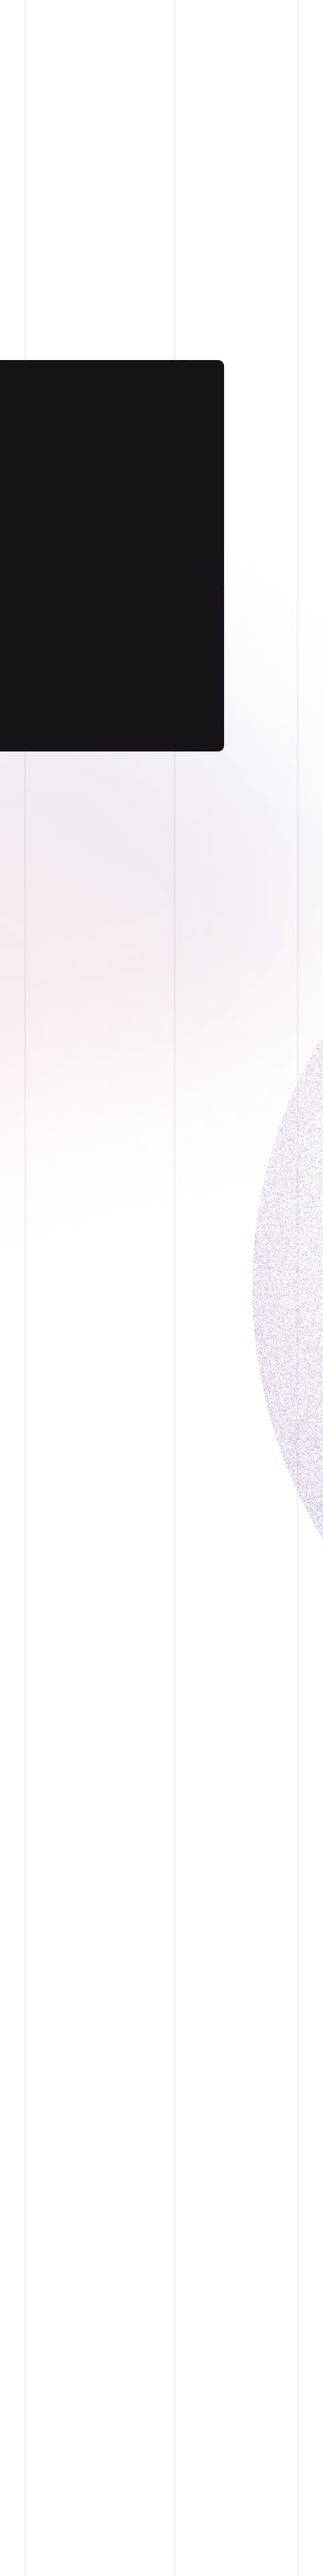
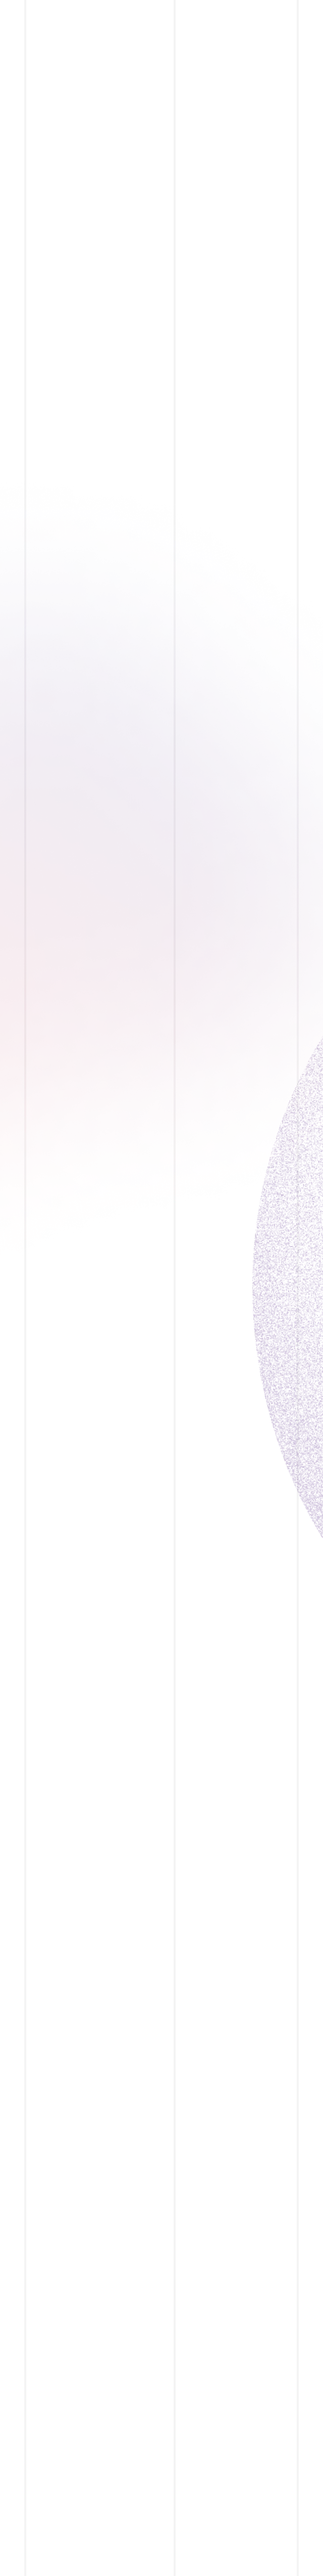
update section bg

Changed region(s): [[0.0, 0.1249, 0.7188, 0.3121]]

diff --git a/views/MafiaSchool/MafiaSchool.module.css b/views/MafiaSchool/MafiaSchool.module.css
@@ -23,15 +23,39 @@
   );
 }
 
-@media screen and (min-width: 352px) {
+.container::before {
+  content: '';
+
+  width: 384px;
+  height: 387px;
+
+  position: absolute;
+  top: 276px;
+  left: -158px;
+
+  background: #141318;
+
+  border-radius: 6px;
+}
+
+@media screen and (min-width: 351px) {
   .schoolSection::before {
     top: 742px;
+  }
+
+  .container::before {
+    top: 250px;
   }
 }
 
 @media screen and (min-width: 378px) {
   .schoolSection::before {
     top: 718px;
+  }
+
+  .container::before {
+    width: 484px;
+    top: 227px;
   }
 }
 
@@ -46,6 +70,14 @@
   .schoolSection::before {
     top: 344px;
   }
+
+  .container::before {
+    width: 582px;
+    height: 702px;
+
+    top: 386px;
+    left: -262px;
+  }
 }
 
 @media screen and (min-width: 1280px) {
@@ -59,6 +91,13 @@
   .schoolSection::before {
     top: 340px;
   }
+
+  .container::before {
+    width: 735px;
+    height: 484px;
+
+    top: 380px;
+  }
 }
 
 @media screen and (min-width: 1752px) {
@@ -67,5 +106,15 @@
       url('/images/home/home-school-bg-desk-lg.webp') 1x,
       url('/images/home/home-school-bg-desk-lg@2x.webp') 2x
     );
+  }
+
+  .container::before {
+    width: 652px;
+    height: 484px;
+
+    top: 380px;
+    left: -84px;
+
+    border-radius: 0 6px 6px 0;
   }
 }

diff --git a/components/MafiaSchoolImage/MafiaSchoolImage.tsx b/components/MafiaSchoolImage/MafiaSchoolImage.tsx
@@ -18,13 +18,13 @@ export const MafiaSchoolImage: React.FC<SectionImageProps> = ({
 
   const containerStyles = classNames(
     sizes,
-    'mb-[76px] rounded-normal shadow-sm',
-    'md:mb-[96px] xxl:bottom-[120px] xxl:top-auto',
+    'mb-[76px] relative rounded-normal shadow-sm',
+    'md:mb-[96px]',
   );
 
   const imageStyles = classNames(
     sizes,
-    'rounded-normal object-cover object-center',
+    'z-1 rounded-normal object-cover object-center',
     'md:object-left',
     css.image,
   );

diff --git a/views/MafiaSchool/MafiaSchool.tsx b/views/MafiaSchool/MafiaSchool.tsx
@@ -30,9 +30,11 @@ export const MafiaSchool: React.FC = () => {
     'py-[80px] mx-auto relative bg-no-repeat bg-top bg-cover',
   );
 
+  const containerStyles = classNames('container relative', css.container);
+
   return (
     <Section className={sectionStyles}>
-      <div className="container relative">
+      <div className={containerStyles}>
         <Heading variant="primary" shadow={title} className="mb-6">
           {title}
         </Heading>
